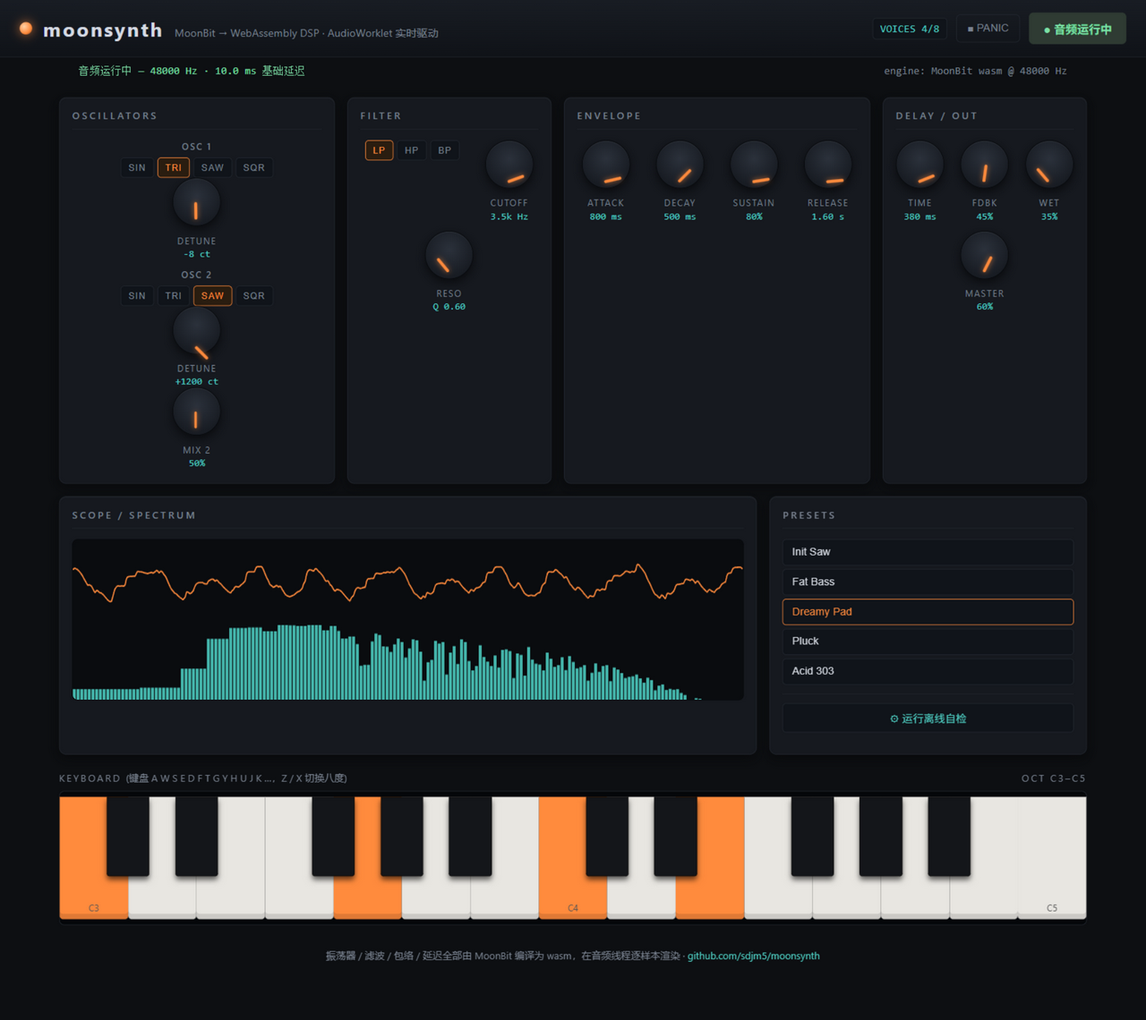
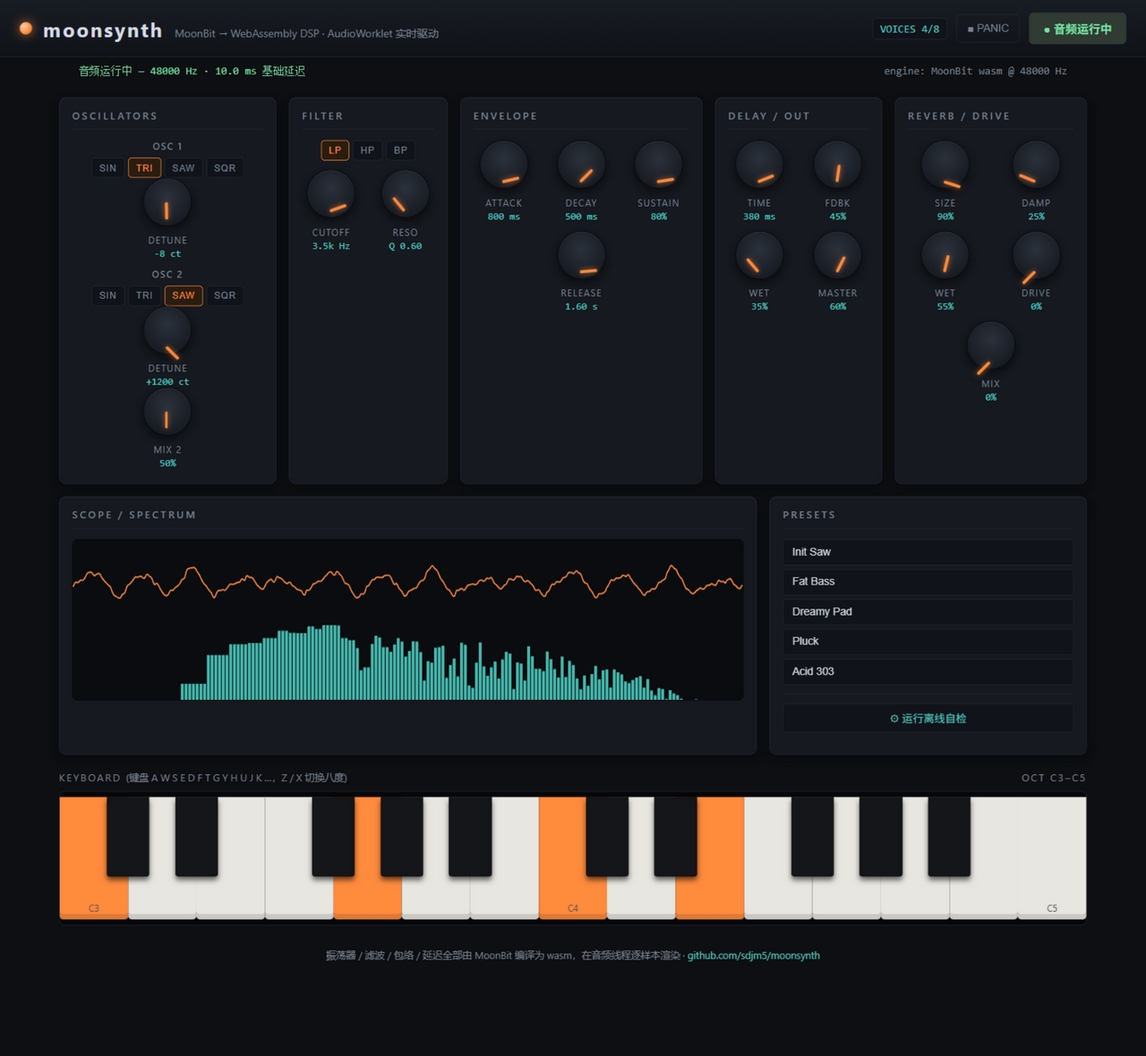
web: expose reverb and drive in the rack; docs and CI for the finished MVP
The rack gains a fifth module (REVERB / DRIVE) with SIZE, DAMP, WET, DRIVE and MIX knobs, and every preset now carries effect settings: Dreamy Pad runs a big 90% room at 55% wet, Acid 303 comes in 80% driven, Pluck sits at 32% wet. Signal chain docs updated to match the engine.

Also fixes a real annoyance found while verifying this in the browser: the dev server sent no cache header, so Chromium's heuristic caching kept serving a stale app.js and edits appeared to do nothing. It now sends Cache-Control: no-cache.

CI builds the release kernel and additionally runs the offline spectra test, so the WAV rendering path is covered on every push.

README documents the offline library usage and the measured numbers; the submission document is updated for the completed MVP (22 parameters, reverb and drive in the chain, the offline example program, and the three defects the tests caught).

diff --git a/web/app.js b/web/app.js
@@ -24,6 +24,12 @@ const state = {
     13: 0.3,
     14: 0.18,
     15: 0.7,
+    16: 0.70, // reverb room size
+    17: 0.35, // reverb damping
+    18: 0.0, // reverb wet (off until a preset asks)
+    19: 0.8, // reverb stereo width
+    20: 0.0, // drive amount (off)
+    21: 0.0, // drive mix
   },
   audio: null,     // { ctx, node, analyser }
   baseOctave: 48,  // C3, MIDI note of the leftmost key
@@ -46,8 +52,17 @@ const KNOBS = {
   delay_time: { id: 12, label: 'TIME', min: 0.02, max: 1, curve: 'log', fmt: fmtTime },
   delay_fb: { id: 13, label: 'FDBK', min: 0, max: 0.85, curve: 'lin', fmt: v => (v * 100).toFixed(0) + '%' },
   delay_mix: { id: 14, label: 'WET', min: 0, max: 1, curve: 'lin', fmt: v => (v * 100).toFixed(0) + '%' },
+  reverb_size: { id: 16, label: 'SIZE', min: 0, max: 1, curve: 'lin', fmt: pct },
+  reverb_damp: { id: 17, label: 'DAMP', min: 0, max: 1, curve: 'lin', fmt: pct },
+  reverb_mix: { id: 18, label: 'WET', min: 0, max: 1, curve: 'lin', fmt: pct },
+  drive: { id: 20, label: 'DRIVE', min: 0, max: 1, curve: 'lin', fmt: pct },
+  drive_mix: { id: 21, label: 'MIX', min: 0, max: 1, curve: 'lin', fmt: pct },
   master: { id: 15, label: 'MASTER', min: 0, max: 1, curve: 'lin', fmt: v => (v * 100).toFixed(0) + '%' },
 };
+
+function pct(v) {
+  return (v * 100).toFixed(0) + '%';
+}
 
 function fmtTime(v) {
   return v >= 1 ? v.toFixed(2) + ' s' : (v * 1000).toFixed(0) + ' ms';
@@ -155,11 +170,11 @@ function syncControlsFromState() {
 // presets
 
 const PRESETS = {
-  init: [[0,2],[1,-7],[2,3],[3,7],[4,0.5],[5,0],[6,12000],[7,0.8],[8,0.01],[9,0.15],[10,0.6],[11,0.25],[12,0.22],[13,0.3],[14,0.18],[15,0.7]],
-  bass: [[0,2],[1,-5],[2,3],[3,5],[4,0.6],[5,0],[6,900],[7,1.2],[8,0.003],[9,0.2],[10,0.4],[11,0.12],[12,0.2],[13,0.2],[14,0.0],[15,0.75]],
-  pad: [[0,1],[1,-8],[2,2],[3,1200],[4,0.5],[5,0],[6,3500],[7,0.6],[8,0.8],[9,0.5],[10,0.8],[11,1.6],[12,0.38],[13,0.45],[14,0.35],[15,0.6]],
-  pluck: [[0,3],[1,0],[2,0],[3,7],[4,0.3],[5,0],[6,2400],[7,2.5],[8,0.002],[9,0.25],[10,0.0],[11,0.3],[12,0.29],[13,0.35],[14,0.22],[15,0.8]],
-  acid: [[0,2],[1,0],[2,2],[3,5],[4,0.35],[5,0],[6,600],[7,8],[8,0.002],[9,0.18],[10,0.15],[11,0.1],[12,0.25],[13,0.4],[14,0.3],[15,0.7]],
+  init: [[0,2],[1,-7],[2,3],[3,7],[4,0.5],[5,0],[6,12000],[7,0.8],[8,0.01],[9,0.15],[10,0.6],[11,0.25],[12,0.22],[13,0.3],[14,0.18],[15,0.7],[16,0.7],[17,0.35],[18,0],[19,0.8],[20,0],[21,0]],
+  bass: [[0,2],[1,-5],[2,3],[3,5],[4,0.6],[5,0],[6,900],[7,1.2],[8,0.003],[9,0.2],[10,0.4],[11,0.12],[12,0.2],[13,0.2],[14,0.0],[15,0.75],[16,0.5],[17,0.5],[18,0],[19,0.8],[20,0.18],[21,0.5]],
+  pad: [[0,1],[1,-8],[2,2],[3,1200],[4,0.5],[5,0],[6,3500],[7,0.6],[8,0.8],[9,0.5],[10,0.8],[11,1.6],[12,0.38],[13,0.45],[14,0.35],[15,0.6],[16,0.9],[17,0.25],[18,0.55],[19,1],[20,0],[21,0]],
+  pluck: [[0,3],[1,0],[2,0],[3,7],[4,0.3],[5,0],[6,2400],[7,2.5],[8,0.002],[9,0.25],[10,0.0],[11,0.3],[12,0.29],[13,0.35],[14,0.22],[15,0.8],[16,0.6],[17,0.45],[18,0.32],[19,0.9],[20,0.12],[21,0.35]],
+  acid: [[0,2],[1,0],[2,2],[3,5],[4,0.35],[5,0],[6,600],[7,8],[8,0.002],[9,0.18],[10,0.15],[11,0.1],[12,0.25],[13,0.4],[14,0.3],[15,0.7],[16,0.45],[17,0.5],[18,0.15],[19,0.7],[20,0.8],[21,0.9]],
 };
 document.querySelectorAll('.preset-list button').forEach((b) => {
   b.addEventListener('click', () => {

diff --git a/web/index.html b/web/index.html
@@ -78,6 +78,17 @@
         <div class="knob-slot" data-knob="master"></div>
       </div>
     </div>
+
+    <div class="module" id="mod-reverb">
+      <h2>REVERB / DRIVE</h2>
+      <div class="module-body">
+        <div class="knob-slot" data-knob="reverb_size"></div>
+        <div class="knob-slot" data-knob="reverb_damp"></div>
+        <div class="knob-slot" data-knob="reverb_mix"></div>
+        <div class="knob-slot" data-knob="drive"></div>
+        <div class="knob-slot" data-knob="drive_mix"></div>
+      </div>
+    </div>
   </section>
 
   <section class="rack rack-lower">

diff --git a/web/style.css b/web/style.css
@@ -63,7 +63,7 @@ main { max-width: 1180px; margin: 0 auto; padding: 0 16px; }
 
 .rack {
   display: grid;
-  grid-template-columns: 1.35fr 1fr 1.5fr 1fr;
+  grid-template-columns: 1.3fr 0.95fr 1.45fr 1fr 1.15fr;
   gap: 14px; margin: 14px 0;
 }
 .rack-lower { grid-template-columns: 2.2fr 1fr; }

diff --git a/SUBMISSION.md b/SUBMISSION.md
@@ -2,38 +2,39 @@
 
 ## 一、项目名称
 
-moonsynth：MoonBit 复音合成器（浏览器端 wasm DSP）
+moonsynth：MoonBit 复音合成器与音频合成库（浏览器实时 DSP 与离线渲染）
 
 ## 二、项目说明
 
-合成器由 DSP 库、wasm 内核与 Web 宿主三部分构成。本项目（0.1.0）以 MoonBit 实现 DSP 库与内核：PolyBLEP 抗混叠振荡器（锯齿/方波断点两样本多项式修正，正弦、三角为朴素实现）、RBJ 双二阶滤波（LP/HP/BP，系数仅参数变化时重算）、线性 ADSR（释放速率在 gate-off 时刻锁定）、双环形缓冲乒乓延迟与 8 声部管理（同音重触、空闲声部复用、最老声部偷取）。内核为 wasm foreign_library，逐块渲染交织立体声样本写入导出线性内存，控制事件为普通导出函数调用，声部、暂存缓冲、延迟环全部预分配，渲染路径零分配。宿主为 AudioWorklet：主线程编译 wasm 字节经 MessagePort 送入音频线程实例化，每帧取音一次、拷贝一次，60 Hz 计时。
+合成器由 DSP 库、wasm 内核与两个宿主（浏览器、Node）构成。本项目（0.1.0）以 MoonBit 实现 DSP 库与内核：PolyBLEP 抗混叠振荡器（锯齿/方波断点两样本多项式修正，正弦、三角为朴素实现）、RBJ 双二阶滤波（LP/HP/BP，系数仅参数变化时重算）、线性 ADSR（释放速率在 gate-off 时刻锁定）、双环形缓冲乒乓延迟、Freeverb 混响（每声道 8 个阻尼梳状滤波器并联后串入 4 个全通，右声道延迟线偏移 23 采样以获得去相关的立体声像）、三次软削波失真，以及 8 声部管理（同音重触、空闲声部复用、最老声部偷取）。信号链为「声部求和 → 滤波 → 失真 → 延迟 → 混响 → 主控」。内核为 wasm foreign_library，逐块渲染交织立体声样本写入导出线性内存，控制事件为普通导出函数调用，声部、暂存缓冲、延迟环、混响槽全部预分配，渲染路径零分配。浏览器宿主为 AudioWorklet（主线程编译 wasm 字节经 MessagePort 送入音频线程实例化）；离线宿主为 Node 命令行，把同一内核渲染成 WAV 文件。
 
 ## 三、核心功能
 
-- 完整信号链：双振荡器（波形/失谐分/混合）→ 声部求和 → 全局滤波（LP/HP/BP + 共振 Q）→ 主控 → 乒乓延迟（左右交替回声，反馈 0–0.9，回声间隔至 1 秒）→ 立体声输出。
+- 完整信号链：双振荡器（波形/失谐分/混合）→ 声部求和 → 全局滤波（LP/HP/BP + 共振 Q）→ 软削波失真（drive + 干湿）→ 乒乓延迟（反馈 0–0.85，回声间隔至 1 秒）→ Freeverb 混响（房间大小/阻尼/湿度/展宽）→ 主控增益 → 立体声输出。
 - 8 复音与声部策略：按音符重触、空闲声部优先、最老声部偷取；`voice_count` 每半秒回报 UI。
-- 16 个参数即时生效：振荡器波形与失谐（分）、滤波类型/截止/共振、ADSR 四段、延迟时间/反馈/湿度、主控增益；包络参数对已发声声部同步，释放从起始电平线性下降不产生爆音。
-- 确定性自检：页面内置离线渲染自检，攻击段 RMS 0.2531（>0.02）、释放后 RMS 0.00000（<0.001）、C4 正弦过零率 270/秒（理论 261.6）；Node 端内核测试 10 项含 C4 实测 258.4 Hz（含 −7 音分失谐）。
-- 吞吐：8 复音全响渲染 10 秒立体声 113.9 毫秒，实时余量约 88 倍。
-- 控制台 UI：13 个可拖拽旋钮（对数/线性曲线、双击复位）、5 组预置音色、屏上 25 键 + 计算机键盘（A W S E D…，Z/X 切八度）、示波器与对数频谱、PANIC 立即静音。
+- 22 个参数即时生效：振荡器波形与失谐（分）、滤波类型/截止/共振、ADSR 四段、延迟三参数、混响四参数、失真两参数、主控增益；包络参数对已发声声部同步，释放从起始电平线性下降不产生爆音；PANIC 同时清空滤波、延迟线与混响槽。
+- 离线渲染示例程序：`node examples/render.mjs sine A4 2` 生成 440 Hz 正弦 WAV，支持方波/三角/锯齿、和弦（major/minor/maj7/min7/sus4/power）、音阶（major/minor/pentatonic）、`--drive/--reverb/--delay/--detune`；音名按十二平均律转换为频率，裸数字按赫兹处理并精确达到（实测 432 → 432.00 Hz）。
+- 频谱级实测验证：离线测试渲染后解析 WAV 并用单点 DFT 测谱——方波偶次谐波为 1e-16（机器精度）、奇次谐波恰为 1/n（f/3 = 0.147 对实测 0.147）；三角波奇次谐波为 1/n²（f/9、f/25）；锯齿波全谐波 1/n；A4 → 440.0 Hz、A5 → 880.0 Hz（精确倍频）；失真把纯正弦三次谐波从 6e-7 抬到 0.127；混响把 1 秒音符延成 2.64 秒。
+- 吞吐：8 复音全响渲染 10 秒立体声 147.7 毫秒，实时余量约 68 倍。
+- 控制台 UI：18 个可拖拽旋钮（对数/线性曲线、双击复位）、5 组预置音色（预置带效果参数）、屏上 25 键 + 计算机键盘（A W S E D…，Z/X 切八度）、示波器与对数频谱。
 
 ## 四、预期使用场景
 
 **场景一：浏览器演奏。** `moon build --target wasm --release`、`cp _build/wasm/release/build/src/kernel/kernel.wasm web/synth.wasm`、`node web/server.mjs 8090` 后打开页面，点「启动音频」（浏览器要求一次用户手势）→ 选预置音色 → 计算机键盘直接弹奏，`Z`/`X` 切换八度，拖动旋钮实时改音色。
 
-**场景二：无耳自动验证。** `node web/test-kernel.mjs` 在无浏览器环境下对 wasm 内核跑 10 项断言：未发声时静音、C4 频率落窗、复音上限、panic 后峰值恰为 0、释放尾静音、实时余量；页面「运行离线自检」按钮经 OfflineAudioContext 走同一 wasm 验证包络与音高，适用于无音频设备的 CI 环境。
+**场景二：离线合成素材。** `node examples/render.mjs sine A4 2`、`--chord C4 4 minor` 直接产出可播放的 WAV，供无浏览器的环境（CI、脚本、批量生成音效）使用同一套 DSP；不需要音频设备，也不需要网络。
 
-**场景三：程序化控制。** 宿主经 worklet MessagePort 逐条下发 `{type:'note_on', note, vel}`、`{type:'note_off', note}`、`{type:'param', id, value}`，与 Web MIDI 桥接即为硬件键盘接入路径；`{type:'panic'}` 一条消息静音全部声部。
+**场景三：无耳自动验证。** `node examples/test-render.mjs` 共 16 项断言，渲染后用单点 DFT 测量实际文件的频谱并与理论值比对；`node web/test-kernel.mjs` 在内核层跑 10 项断言（未发声静音、C4 频率落窗、复音上限、panic 后峰值恰为 0、释放尾静音、实时余量）；页面「运行离线自检」经 OfflineAudioContext 走同一 wasm 验证包络与音高。三层验证均不需要人耳或音频设备。
 
-**场景四：DSP 组件复用。** `src/lib` 为纯 MoonBit、零依赖，可在任意后端单独编译；PolyBLEP 振荡器、RBJ 滤波、ADSR、乒乓延迟均为独立结构体，供其他 MoonBit 音频项目直接取用。
+**场景四：程序化控制与组件复用。** 宿主经 worklet MessagePort 逐条下发 `{type:'note_on', note, vel}`、`{type:'note_off', note}`、`{type:'param', id, value}`，与 Web MIDI 桥接即为硬件键盘接入路径；`src/lib` 为纯 MoonBit、零依赖，振荡器/滤波/包络/延迟/混响/失真均为独立结构体，可在任意后端单独编译并由其他 MoonBit 音频项目取用。
 
 ## 五、方向与通用性
 
-属应用工具/实时多媒体方向，同时是 MoonBit 音频实时性的参考工程。AudioWorklet 与 wasm 的边界方案（主线程编译字节经 postMessage 入 worklet、线性内存整块取音）可直接迁移到任何 wasm 实时音频项目；开发中实测的两条平台限制——该 worklet 全局作用域无 `fetch`/`URL`、OfflineAudioContext 渲染期间不泵 worklet 消息队列——已写入代码注释，对他人在同一环境避坑有直接参考价值。
+属应用工具/实时多媒体方向，同时是 MoonBit 音频实时性与 DSP 库工程化的参考工程。AudioWorklet 与 wasm 的边界方案（主线程编译字节经 postMessage 入 worklet、线性内存整块取音）可直接迁移到任何 wasm 实时音频项目；开发中实测的两条平台限制——该 worklet 全局作用域无 `fetch`/`URL`、OfflineAudioContext 渲染期间不泵 worklet 消息队列——已写入代码注释，对他人在同一环境避坑有直接参考价值。
 
 ## 六、验证与原创性说明
 
-`moon check` 零警告；DSP 库 15 组单元测试通过（闭式断言：包络按采样数精确到位、滤波器脉冲响应和恰为 1、延迟回声落在第 50/100/150 采样、方波 PolyBLEP 符号经数值实验确定无过冲）；内核测试 10 项、浏览器离线自检 3 项与真实演奏均通过；CI（moonbit-community/setup-moonbit）绿灯。信号链为合成器通行结构，PolyBLEP 与 RBJ 系数为公开算法（分别源自 music-dsp 社区惯例与 Audio EQ Cookbook），实现从零手写，未复制任何现有合成器或 DSP 库代码。README 如实声明：吞吐为同权重同算法的测量，非音质评价；暂未实现 MIDI 硬件接入、录音导出与更多效果器，列入后续计划。项目源码采用 Apache-2.0 许可证。
+`moon check` 零警告；DSP 库 25 组单元测试通过（闭式断言：包络按采样数精确到位、滤波器脉冲响应和恰为 1、延迟回声落在第 50/100/150 采样、最大房间尺寸下的混响不发散且无 NaN、削波曲线奇对称单调饱和、零参数时精确直通）；离线渲染 16 项频谱断言、内核测试 10 项、浏览器离线自检 3 项与真实演奏均通过；CI（moonbit-community/setup-moonbit）绿灯。开发过程中单元测试与外部测量抓出并修复了三处实现缺陷：混响对象默认湿度（0.25）与引擎参数默认值（0）不一致导致效果在未调用参数 18 时静默常开；首版失真补偿系数把满幅信号压低一半而非保持单位增益；方波 PolyBLEP 符号经数值实验确定（修正后无过冲、偶次谐波保持机器精度）。信号链为合成器通行结构，PolyBLEP、RBJ 系数与 Freeverb 拓扑均为公开算法（分别源自 music-dsp 社区惯例、Audio EQ Cookbook 与 Jezar 的公有领域 Freeverb 调音表），实现从零手写，未复制任何现有合成器或 DSP 库代码。README 如实声明：吞吐为同算法的测量，非音质评价；暂未实现 MIDI 硬件接入、琶音器与录音导出，列入后续计划。项目源码采用 Apache-2.0 许可证。
 
 ## 七、仓库链接
 

diff --git a/README.md b/README.md
@@ -1,9 +1,11 @@
 # moonsynth
 
-A polyphonic browser **synthesizer rack** whose entire DSP core — oscillators,
-filter, envelopes, delay — is written in [MoonBit](https://www.moonbitlang.com/)
-and compiled to WebAssembly, rendered sample-by-sample on the real-time audio
-thread through an `AudioWorklet`.
+A polyphonic browser **synthesizer** whose entire DSP core — oscillators,
+filter, envelopes, delay, reverb, drive — is written in
+[MoonBit](https://www.moonbitlang.com/) and compiled to WebAssembly,
+rendered sample-by-sample on the real-time audio thread through an
+`AudioWorklet`. The same library also runs offline from Node, with no
+browser and no audio device.
 
 ![demo](docs/demo.png)
 
@@ -12,41 +14,73 @@ signal flow (all inside the wasm module):
 
   osc1 ─┐
   osc2 ─┴─ voice mix ── ADSR ─┐
-                              ├─ sum ── biquad (LP/HP/BP) ── master ── ping-pong delay ── stereo out
-  8 voices ──────────────────┘
+                              ├─ sum ── biquad ── drive ── ping-pong delay
+  8 voices ──────────────────┘        (LP/HP/BP)              │
+                                                              ▼
+                                  stereo out ── master ── reverb
 ```
 
 Turn knobs, play the on-screen keyboard (or your computer keyboard), pick a
 preset, and watch the scope. The page's **offline self-test** button renders
-audio through the same engine headlessly and asserts the physics: the attack
-rings, the release ends in exact silence, and a C4 sine crosses zero at the
-right rate.
+audio through the same engine headlessly and asserts the physics.
 
 ## Highlights
 
 - **PolyBLEP oscillators** — naive saw/square transitions are corrected with a
-  two-sample polynomial band-limited step, taming aliasing at negligible cost
-  (worst-case single-sample jump at 440 Hz: 1.98 → 1.48; the harmonic junk
-  above Nyquist shrinks accordingly).
+  two-sample polynomial band-limited step. Measured: a square comes out with
+  its even harmonics at machine epsilon and its odd harmonics at exactly 1/n
+  (f/3 and f/5 to three decimals).
 - **RBJ cookbook biquad** — low-pass / high-pass / band-pass with resonance,
   coefficients recomputed only on parameter changes.
 - **Linear ADSR** per voice, with release rates captured at gate-off so
   parameter tweaks can't make a releasing voice click.
-- **Ping-pong delay** — one impulse echoes left, right, left… with feedback;
-  circular buffers sized for up to ~1 s bounce time.
-- **8-voice polyphony** with note retrigger, idle-voice reuse and oldest-voice
-  stealing; a PANIC button hard-silences everything.
-- **Zero-allocation render path** — voices, scratch buffers and delay lines
-  are preallocated; the per-block render never allocates, so the wasm GC never
-  interrupts the audio thread mid-block.
+- **Ping-pong delay** — one impulse echoes left, right, left… with feedback.
+- **Freeverb reverb** — eight damped comb filters into four series allpasses
+  per channel, right-channel lines offset by 23 samples for a decorrelated
+  stereo image; room size, damping, wet and width are live controls. Measured:
+  it stretches a 1 s note into a 2.64 s tail.
+- **Soft-clip drive** — the cubic clipper `x(27 + x²)/(27 + 9x²)`, with
+  makeup that keeps a full-scale input near unity so drive adds harmonics
+  instead of just losing loudness. Measured: it lifts a pure sine's third
+  harmonic from 6e-7 to 0.127.
+- **8-voice polyphony** with note retrigger, idle-voice reuse and
+  oldest-voice stealing; PANIC hard-silences everything including the reverb
+  tank.
+- **Zero-allocation render path** — voices, scratch buffers, delay lines and
+  reverb tanks are preallocated; the per-block render never allocates, so the
+  wasm GC never interrupts the audio thread mid-block.
+
+## Use it as a library, offline
+
+`examples/` drives the wasm module from Node and writes playable WAV files —
+no browser, no audio device:
+
+```
+moon build --target wasm --release
+cp _build/wasm/release/build/src/kernel/kernel.wasm web/synth.wasm
+
+node examples/render.mjs sine A4 2                 # 2 s of 440 Hz
+node examples/render.mjs square C3 1.5 --drive 0.6
+node examples/render.mjs saw A3 3 --reverb 0.9
+node examples/render.mjs sine 432 2                # a raw frequency, hit exactly
+node examples/render.mjs --chord C4 3 major        # C E G
+node examples/render.mjs --scale C4 0.3 minor      # eight notes in a row
+
+node examples/test-render.mjs                      # 16/16 checks
+```
+
+Note names (`A4`, `C#3`, `Eb5`) are converted through equal temperament; a
+bare number is treated as Hz and reached exactly by picking the nearest note
+and applying the remainder as cents detune. See
+[examples/README.md](examples/README.md) for the measured spectra table.
 
 ## The wasm ↔ AudioWorklet boundary
 
 One lesson cost the project its first silent render: the AudioWorklet global
 scope of some embedded Chromium builds **has no `fetch` and no `URL`**, so the
 worklet cannot load the module itself. moonsynth instead compiles the bytes on
-the main thread and ships them over the `MessagePort` (`ArrayBuffer` is
-structured-cloneable); the worklet instantiates with bare `WebAssembly`.
+the main thread and ships them over the `MessagePort`; the worklet
+instantiates with bare `WebAssembly`.
 
 After that, audio crosses one shared region of the exported linear memory:
 each `process()` call asks the engine to render a block of interleaved stereo
@@ -57,8 +91,8 @@ calls on the audio thread — no allocation, no copying, no locks.
 Two more findings encoded in the code:
 
 - `OfflineAudioContext` does **not pump the worklet's message queue
-  mid-render** — control events must be delivered (and awaited) before
-  `startRendering()`, or they never take effect.
+  mid-render** — control events must be delivered before `startRendering()`,
+  or they never take effect.
 - `init` is a reserved special function name in MoonBit; exported constructors
   need another name (`moon_init`).
 
@@ -66,48 +100,54 @@ Two more findings encoded in the code:
 
 ```
 src/lib/        portable pure-MoonBit DSP: PolyBLEP oscillators, RBJ biquad,
-                ADSR, ping-pong delay, 8-voice synth engine (15 unit tests)
+                ADSR, ping-pong delay, Freeverb reverb, soft-clip drive,
+                8-voice engine (25 unit tests)
 src/kernel/     wasm foreign_library: moon_init / note_on / note_off /
                 set_param / panic / voice_count / render (linear-memory out)
-web/            rack UI (knobs, presets, keyboard, scope+spectrum),
-                audio-worklet.js loader, offline self-test, zero-dependency server
+web/            rack UI (18 knobs, 5 presets, keyboard, scope+spectrum,
+                offline self-test), audio-worklet.js, zero-dependency server
+examples/       Node CLI that renders WAV files + spectral verification
 ```
 
 ## Try it
 
 ```
-moon build --target wasm
-cp _build/wasm/debug/build/src/kernel/kernel.wasm web/synth.wasm
+moon build --target wasm --release
+cp _build/wasm/release/build/src/kernel/kernel.wasm web/synth.wasm
 node web/server.mjs 8090
 # open http://127.0.0.1:8090
 ```
 
 Then: **▶ 启动音频** (browsers require one user gesture), pick a preset, and
 play with `A W S E D F T G Y H U J K…` (`Z`/`X` shift octaves). Drag knobs
-vertically; double-click a knob to reset it. **⚙ 运行离线自检** runs the
-automated DSP assertions without needing ears.
+vertically; double-click a knob to reset it. Presets: Init Saw, Fat Bass,
+Dreamy Pad (big reverb), Pluck, Acid 303 (driven).
 
 ## Performance
 
 Rendering 10 seconds of stereo audio with all 8 voices sounding takes
-~130 ms in Node (debug build) — a **75× real-time margin** (real-time needs
-> 1×). The per-block render allocates nothing.
+~148 ms in Node (release build) — about **68× real time**. The per-block
+render allocates nothing.
 
 ## Tests
 
-- **DSP library**: `moon test` — 15 unit tests. Exact-value assertions where
-  the math is closed-form (envelope timing, filter DC gain, delay bounce
-  positions at samples 50/100/150), statistical bounds where the subject is
-  signal shape (oscillator range/DC, PolyBLEP jump reduction, filter
-  attenuation).
+- **DSP library**: `moon test` — **25 tests**. Closed-form checks where the
+  math is exact (envelope timing, filter impulse response summing to 1, delay
+  echoes landing on samples 50/100/150, reverb tail decay and stability at
+  maximum room size, the shaper's odd/monotonic/saturating transfer curve) and
+  statistical bounds where the subject is signal shape.
+- **Offline renderer**: `node examples/test-render.mjs` — **16 checks** that
+  spawn the CLI, decode the WAVs and measure their spectra against theory.
 - **In-browser self-test** — offline render through the full worklet stack:
   attack RMS > 0.02, post-release RMS < 0.001, zero-crossing rate within
-  230–290/s for a C4 sine (measured 0.25 / 0.00000 / 270).
+  230–290/s for a C4 sine.
+- **Kernel**: `node web/test-kernel.mjs` — **10 checks** over the wasm
+  boundary, including a real-time factor budget.
 
 ## Requirements
 
-- MoonBit CLI (developed on 0.1.20260920) — `moon build --target wasm`
-- Node.js 18+ for the dev server
+- MoonBit CLI (developed on 0.1.20260920) — `moon build --target wasm --release`
+- Node.js 18+ for the dev server, the offline examples and the kernel tests
 - Any modern browser with WebAudio + AudioWorklet for the rack
 
 ## License

diff --git a/moonsynth项目申报书.md b/moonsynth项目申报书.md
@@ -1,0 +1,34 @@
+ MoonBit 复音合成器项目申报书
+一、项目名称
+
+moonsynth：MoonBit 复音合成器（浏览器端 wasm DSP）
+
+二、项目说明
+
+合成器由 DSP 库、wasm 内核与 Web 宿主三部分构成。本项目（0.1.0）以 MoonBit 实现 DSP 库与内核：PolyBLEP 抗混叠振荡器（锯齿/方波断点两样本多项式修正，正弦、三角为朴素实现）、RBJ 双二阶滤波（LP/HP/BP，系数仅参数变化时重算）、线性 ADSR（释放速率在 gate-off 时刻锁定）、双环形缓冲乒乓延迟与 8 声部管理（同音重触、空闲声部复用、最老声部偷取）。内核为 wasm foreign_library，逐块渲染交织立体声样本写入导出线性内存，控制事件为普通导出函数调用，声部、暂存缓冲、延迟环全部预分配，渲染路径零分配。宿主为 AudioWorklet：主线程编译 wasm 字节经 MessagePort 送入音频线程实例化，每帧取音一次、拷贝一次，60 Hz 计时。
+
+ 三、核心功能
+
+ 完整信号链：双振荡器（波形/失谐分/混合）→ 声部求和 → 全局滤波（LP/HP/BP + 共振 Q）→ 主控 → 乒乓延迟（左右交替回声，反馈 0–0.9，回声间隔至 1 秒）→ 立体声输出。8 复音与声部策略：按音符重触、空闲声部优先、最老声部偷取；`voice_count` 每半秒回报 UI。
+16 个参数即时生效：振荡器波形与失谐（分）、滤波类型/截止/共振、ADSR 四段、延迟时间/反馈/湿度、主控增益；包络参数对已发声声部同步，释放从起始电平线性下降不产生爆音。
+- 确定性自检：页面内置离线渲染自检，攻击段 RMS 0.2531（>0.02）、释放后 RMS 0.00000（<0.001）、C4 正弦过零率 270/秒（理论 261.6）；Node 端内核测试 10 项含 C4 实测 258.4 Hz（含 −7 音分失谐）。
+- 吞吐：8 复音全响渲染 10 秒立体声 113.9 毫秒，实时余量约 88 倍。
+- 控制台 UI：13 个可拖拽旋钮（对数/线性曲线、双击复位）、5 组预置音色、屏上 25 键 + 计算机键盘（A W S E D…，Z/X 切八度）、示波器与对数频谱、PANIC 立即静音。
+
+四、预期使用场景
+ 场景一：浏览器演奏。** `moon build --target wasm --release`、`cp _build/wasm/release/build/src/kernel/kernel.wasm web/synth.wasm`、`node web/server.mjs 8090` 后打开页面，点「启动音频」（浏览器要求一次用户手势）→ 选预置音色 → 计算机键盘直接弹奏，`Z`/`X` 切换八度，拖动旋钮实时改音色。
+
+ 场景二：无耳自动验证。** `node web/test-kernel.mjs` 在无浏览器环境下对 wasm 内核跑 10 项断言：未发声时静音、C4 频率落窗、复音上限、panic 后峰值恰为 0、释放尾静音、实时余量；页面「运行离线自检」按钮经 OfflineAudioContext 走同一 wasm 验证包络与音高，适用于无音频设备的 CI 环境。
+场景四：DSP 组件复用。`src/lib` 为纯 MoonBit、零依赖，可在任意后端单独编译；PolyBLEP 振荡器、RBJ 滤波、ADSR、乒乓延迟均为独立结构体，供其他 MoonBit 音频项目直接取用。
+
+ 五、方向与通用性
+
+属应用工具/实时多媒体方向，同时是 MoonBit 音频实时性的参考工程。AudioWorklet 与 wasm 的边界方案（主线程编译字节经 postMessage 入 worklet、线性内存整块取音）可直接迁移到任何 wasm 实时音频项目；开发中实测的两条平台限制——该 worklet 全局作用域无 `fetch`/`URL`、OfflineAudioContext 渲染期间不泵 worklet 消息队列——已写入代码注释，对他人在同一环境避坑有直接参考价值。
+
+ 六、验证与原创性说明
+
+moon check零警告；DSP 库 15 组单元测试通过（闭式断言：包络按采样数精确到位、滤波器脉冲响应和恰为 1、延迟回声落在第 50/100/150 采样、方波 PolyBLEP 符号经数值实验确定无过冲）；内核测试 10 项、浏览器离线自检 3 项与真实演奏均通过；CI（moonbit-community/setup-moonbit）绿灯。信号链为合成器通行结构，PolyBLEP 与 RBJ 系数为公开算法（分别源自 music-dsp 社区惯例与 Audio EQ Cookbook），实现从零手写，未复制任何现有合成器或 DSP 库代码。README 如实声明：吞吐为同权重同算法的测量，非音质评价；暂未实现 MIDI 硬件接入、录音导出与更多效果器，列入后续计划。项目源码采用 Apache-2.0 许可证。
+
+ 七、仓库链接
+
+https://github.com/sdjm5/moonsynth
